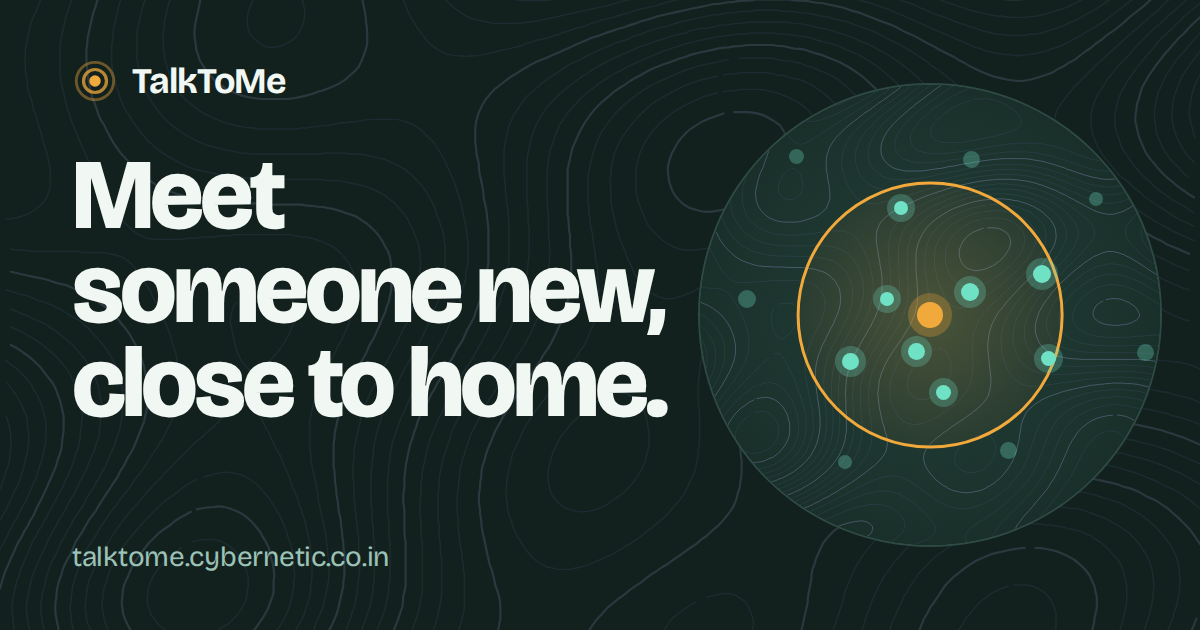
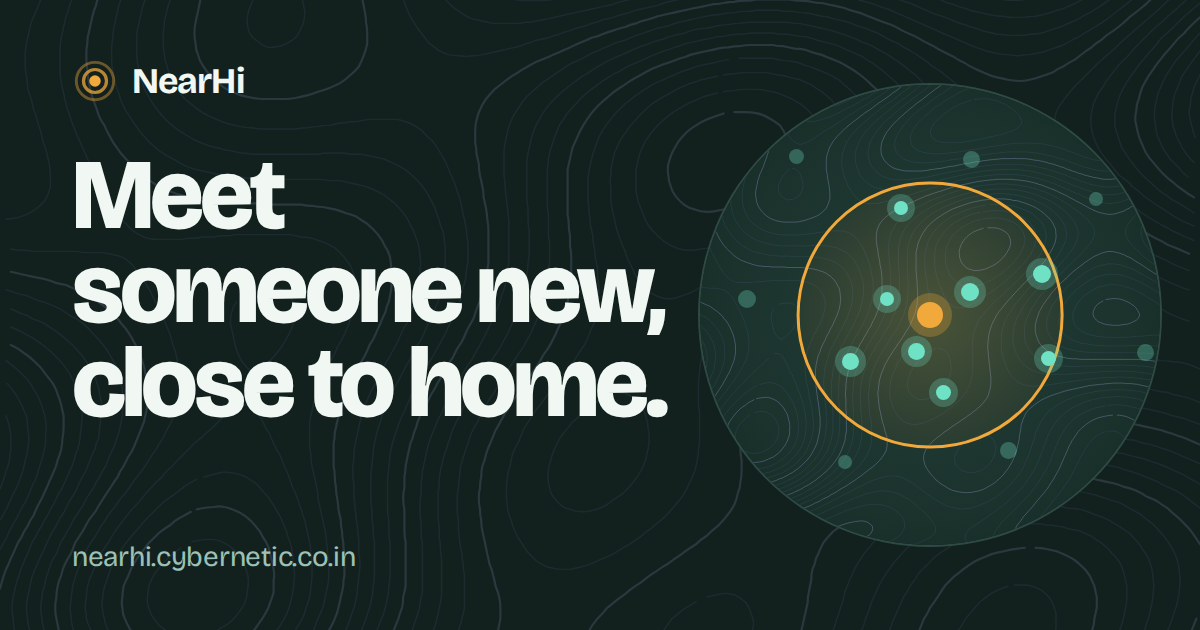
rename to Nearhi

Changed region(s): [[0.0925, 0.0905, 0.2467, 0.1508], [0.0617, 0.8746, 0.3392, 0.9048]]

diff --git a/static/index.html b/static/index.html
@@ -3,17 +3,17 @@
 <head>
 <meta charset="utf-8">
 <meta name="viewport" content="width=device-width, initial-scale=1">
-<title>TalkToMe: meet new people close to home</title>
+<title>NearHi: meet new people close to home</title>
 <meta name="description" content="Video and text chat with someone new, inside the distance you choose. No account, no profile. Free, in your browser.">
 <meta name="theme-color" content="#12211E">
-<link rel="canonical" href="https://talktome.cybernetic.co.in/">
+<link rel="canonical" href="https://nearhi.cybernetic.co.in/">
 
 <meta property="og:type" content="website">
-<meta property="og:site_name" content="TalkToMe">
-<meta property="og:title" content="TalkToMe: meet new people close to home">
+<meta property="og:site_name" content="NearHi">
+<meta property="og:title" content="NearHi: meet new people close to home">
 <meta property="og:description" content="Video and text chat with someone new, inside the distance you choose. No account, no profile.">
-<meta property="og:url" content="https://talktome.cybernetic.co.in/">
-<meta property="og:image" content="https://talktome.cybernetic.co.in/og-image.png">
+<meta property="og:url" content="https://nearhi.cybernetic.co.in/">
+<meta property="og:image" content="https://nearhi.cybernetic.co.in/og-image.png">
 <meta property="og:image:width" content="1200">
 <meta property="og:image:height" content="630">
 <meta name="twitter:card" content="summary_large_image">
@@ -287,9 +287,9 @@
 <header>
   <div class="wrap">
     <div class="nav">
-      <a class="brand" href="/" aria-label="TalkToMe home">
+      <a class="brand" href="/" aria-label="NearHi home">
         <svg viewBox="0 0 64 64" aria-hidden="true"><circle cx="32" cy="32" r="26" fill="none" stroke="#F2A93B" stroke-opacity=".4" stroke-width="4"/><circle cx="32" cy="32" r="16" fill="none" stroke="#F2A93B" stroke-opacity=".75" stroke-width="4.5"/><circle cx="32" cy="32" r="8" fill="#F2A93B"/></svg>
-        TalkToMe
+        NearHi
       </a>
       <nav class="nav-links" aria-label="Main">
         <a href="#how">How it works</a>
@@ -423,7 +423,7 @@
 
         <div class="stay">
           <h3>Stay in control</h3>
-          <p>TalkToMe is new, and no one is watching the chats yet. That makes you the moderator. Skip or stop the moment something feels off, keep your name, address, school and phone number to yourself, and remember this is for adults only.</p>
+          <p>NearHi is new, and no one is watching the chats yet. That makes you the moderator. Skip or stop the moment something feels off, keep your name, address, school and phone number to yourself, and remember this is for adults only.</p>
         </div>
       </div>
     </div>
@@ -465,7 +465,7 @@
         </details>
         <details>
           <summary>Who is it for?</summary>
-          <p>Adults only. You must be 18 or older to use TalkToMe.</p>
+          <p>Adults only. You must be 18 or older to use NearHi.</p>
         </details>
       </div>
     </div>
@@ -484,16 +484,16 @@
 
 <footer>
   <div class="wrap foot">
-    <a class="brand" href="/" aria-label="TalkToMe home">
+    <a class="brand" href="/" aria-label="NearHi home">
       <svg viewBox="0 0 64 64" aria-hidden="true"><circle cx="32" cy="32" r="26" fill="none" stroke="#F2A93B" stroke-opacity=".4" stroke-width="4"/><circle cx="32" cy="32" r="16" fill="none" stroke="#F2A93B" stroke-opacity=".75" stroke-width="4.5"/><circle cx="32" cy="32" r="8" fill="#F2A93B"/></svg>
-      TalkToMe
+      NearHi
     </a>
     <nav aria-label="Footer">
       <a href="#how">How it works</a>
       <a href="#privacy">Privacy</a>
       <a href="#faq">FAQ</a>
     </nav>
-    <p>© 2026 TalkToMe. Be kind out there.</p>
+    <p>© 2026 NearHi. Be kind out there.</p>
   </div>
 </footer>
 

diff --git a/static/talk/index.html b/static/talk/index.html
@@ -3,7 +3,7 @@
 <head>
 <meta charset="utf-8">
 <meta name="viewport" content="width=device-width, initial-scale=1">
-<title>TalkToMe</title>
+<title>NearHi</title>
 <link rel="icon" href="/favicon.ico" sizes="32x32">
 <link rel="icon" href="/favicon.svg" type="image/svg+xml">
 <link rel="apple-touch-icon" href="/apple-touch-icon.png">
@@ -140,7 +140,7 @@
 <main class="app">
 
   <div class="topbar">
-    <a class="wordmark" href="/" aria-label="TalkToMe home">TalkToMe</a>
+    <a class="wordmark" href="/" aria-label="NearHi home">NearHi</a>
     <div class="topbar-right">
       <span id="status" class="status">Connecting…</span>
       <button id="skipBtn" class="btn btn-primary btn-sm" disabled>Skip</button>

diff --git a/README.md b/README.md
@@ -1,4 +1,4 @@
-![TalkToMe](docs/banner.svg)
+![NearHi](docs/banner.svg)
 
 ![Python](https://img.shields.io/badge/Python-3.12-3776AB?logo=python&logoColor=white)
 ![FastAPI](https://img.shields.io/badge/FastAPI-0.115-009688?logo=fastapi&logoColor=white)
